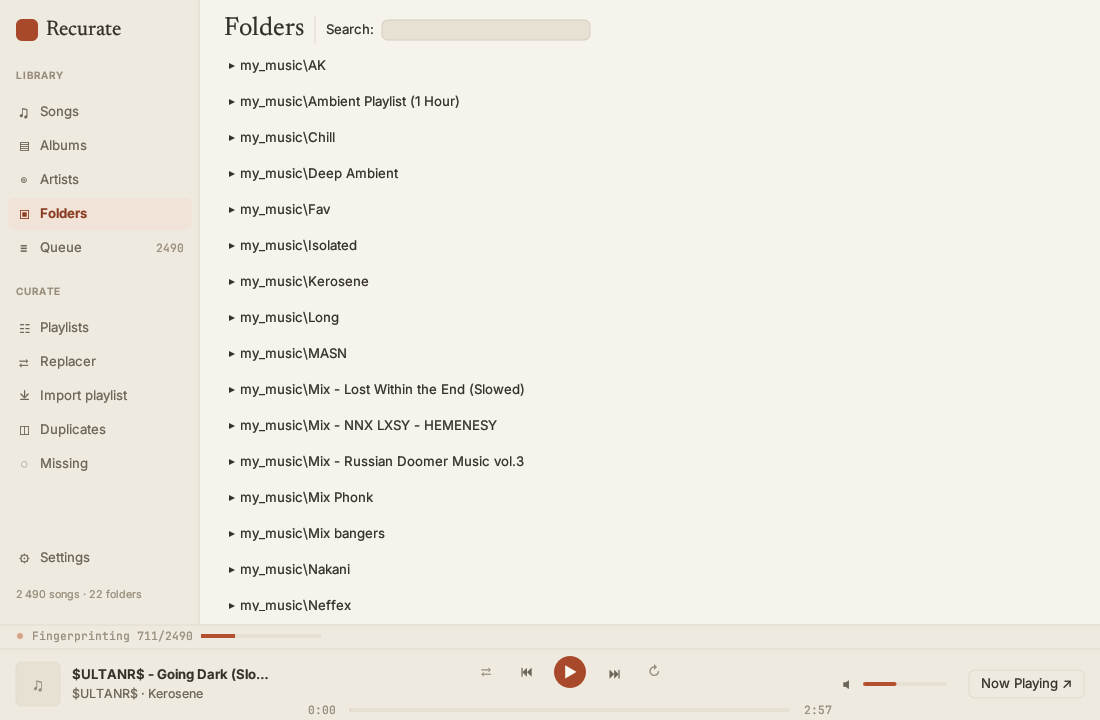
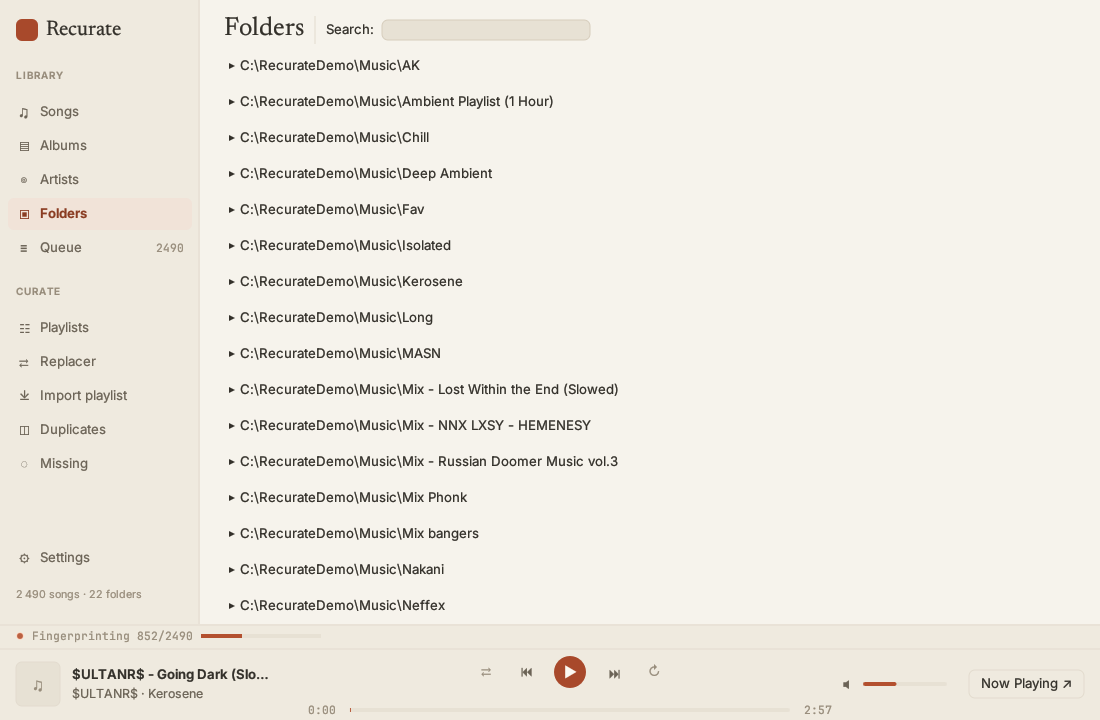
docs: screenshots without personal paths; document how to update them
The capture tool now exposes the library through junctions under
C:\RecurateDemo and keeps its settings file there, so no screenshot
shows the Windows user name. Recapture all twelve screens and restore
the README section that explains how to regenerate them.

diff --git a/player/examples/capture_screenshots.rs b/player/examples/capture_screenshots.rs
@@ -11,10 +11,13 @@
 //!
 //! Opens the real app window with your saved settings, visits each screen and
 //! saves one PNG per screen through egui's viewport screenshot command. Nothing
-//! is clicked. Library roots that live under the current directory are shown
-//! relative, so the images don't carry the Windows user name. A track is
-//! started muted and then paused so the mini player has something to show.
-//! Settings are never written back: saves are redirected to a temp folder.
+//! is clicked. A track is started muted and then paused so the mini player
+//! has something to show.
+//!
+//! Nothing personal reaches the images: the library roots are exposed through
+//! directory junctions under `C:\RecurateDemo\` (so every path on screen reads
+//! `C:\RecurateDemo\Music\...`), the settings file lives under the same
+//! folder, and the whole folder is removed when the run ends.
 
 use std::path::{Path, PathBuf};
 use std::sync::atomic::Ordering;
@@ -158,14 +161,58 @@ fn save_png(image: &egui::ColorImage, path: &Path) -> Result<()> {
     Ok(())
 }
 
-/// `C:\Users\me\...\player\my_music` → `my_music` when it sits under `cwd`.
-fn relative_to(p: &str, cwd: &Path) -> String {
-    let norm = |s: &str| s.replace('/', "\\").to_lowercase();
-    let base = norm(&cwd.to_string_lossy());
-    let full = norm(p);
-    match full.strip_prefix(&format!("{base}\\")) {
-        Some(_) => p[base.len() + 1..].to_string(),
-        None => p.to_string(),
+const DEMO_ROOT: &str = r"C:\RecurateDemo";
+
+/// Junctions and config folder under `C:\RecurateDemo`, removed on drop.
+struct DemoRoot {
+    dir: PathBuf,
+}
+
+impl DemoRoot {
+    fn create(dest: &str, source: &str) -> Result<(Self, String, String)> {
+        let dir = PathBuf::from(DEMO_ROOT);
+        Self::remove_dir(&dir)?;
+        std::fs::create_dir_all(dir.join("config"))?;
+        let music = dir.join("Music");
+        let original = dir.join("Music_original");
+        Self::junction(&music, Path::new(dest))?;
+        Self::junction(&original, Path::new(source))?;
+        Ok((
+            Self { dir },
+            music.to_string_lossy().into_owned(),
+            original.to_string_lossy().into_owned(),
+        ))
+    }
+
+    fn junction(link: &Path, target: &Path) -> Result<()> {
+        let status = std::process::Command::new("cmd")
+            .args(["/C", "mklink", "/J"])
+            .arg(link)
+            .arg(target)
+            .stdout(std::process::Stdio::null())
+            .status()?;
+        anyhow::ensure!(status.success(), "mklink /J {} failed", link.display());
+        Ok(())
+    }
+
+    /// `rmdir` removes junctions without touching what they point at.
+    fn remove_dir(dir: &Path) -> Result<()> {
+        if dir.exists() {
+            let status = std::process::Command::new("cmd")
+                .args(["/C", "rmdir", "/S", "/Q"])
+                .arg(dir)
+                .status()?;
+            anyhow::ensure!(status.success(), "rmdir {} failed", dir.display());
+        }
+        Ok(())
+    }
+}
+
+impl Drop for DemoRoot {
+    fn drop(&mut self) {
+        if let Err(e) = Self::remove_dir(&self.dir) {
+            eprintln!("could not remove {}: {e:#}", self.dir.display());
+        }
     }
 }
 
@@ -189,17 +236,17 @@ fn main() -> Result<()> {
         anyhow::bail!("no matching screens; known: {:?}", SHOTS.iter().map(|s| s.0).collect::<Vec<_>>());
     }
     std::fs::create_dir_all(&out_dir)?;
-    let cwd = std::env::current_dir()?;
 
     let mut settings = Settings::load_or_default();
-    // From here on any settings save lands in a throwaway folder: the
-    // relative roots and muted volume below must never reach the user's file.
-    std::env::set_var(
-        "RECURATE_CONFIG_DIR",
-        std::env::temp_dir().join("recurate-capture-config"),
-    );
-    settings.scan.roots = settings.scan.roots.iter().map(|r| relative_to(r, &cwd)).collect();
-    settings.scan.source_root = relative_to(&settings.scan.source_root, &cwd);
+    let real_dest = settings.scan.roots.first().cloned().unwrap_or_default();
+    let real_source = settings.scan.source_root.clone();
+    anyhow::ensure!(!real_dest.is_empty(), "no destination root configured");
+    let (_demo, demo_dest, demo_source) = DemoRoot::create(&real_dest, &real_source)?;
+    // From here on any settings save lands in the demo folder: the demo
+    // roots and muted volume below must never reach the user's file.
+    std::env::set_var("RECURATE_CONFIG_DIR", PathBuf::from(DEMO_ROOT).join("config"));
+    settings.scan.roots = vec![demo_dest];
+    settings.scan.source_root = demo_source;
     let volume = settings.playback.volume;
     settings.playback.volume = 0.0;
     let roots: Vec<PathBuf> = settings.scan.roots.iter().map(PathBuf::from).collect();

diff --git a/README.md b/README.md
@@ -555,6 +555,34 @@ the relevant modules (`data/fingerprint.rs`, `replacer/`, `ui/app.rs`).
 
 ---
 
+## Updating screenshots
+
+The images under `docs/screenshots/` are captured from the real app window
+by a small tool, so they always show the current build. From `player/`:
+
+```bash
+cargo run --release --example capture_screenshots              # all screens
+cargo run --release --example capture_screenshots -- songs queue   # a subset
+```
+
+The tool opens the app muted, visits every screen and saves one PNG per
+screen (a minute or two; a window will flash on screen). Your library is
+exposed through temporary junctions under `C:\RecurateDemo\`, so no path on
+screen reveals your user name, and your real `settings.toml` is never
+written. Screens with a status count (Duplicates, Missing) wait for
+fingerprinting to finish first.
+
+| File | Screen |
+|---|---|
+| `songs.png` | Songs (also the hero image) |
+| `albums.png`, `artists.png`, `folders.png` | Albums, Artists, Folders |
+| `now-playing.png`, `queue.png` | Now Playing, Queue |
+| `playlists.png`, `playlist.png` | Playlists hub, Playlist import |
+| `replacer.png`, `missing.png`, `duplicates.png` | Replacer, Missing, Duplicates |
+| `settings.png` | Settings |
+
+---
+
 ## License
 
 (Project is private — no license file at this time.)
